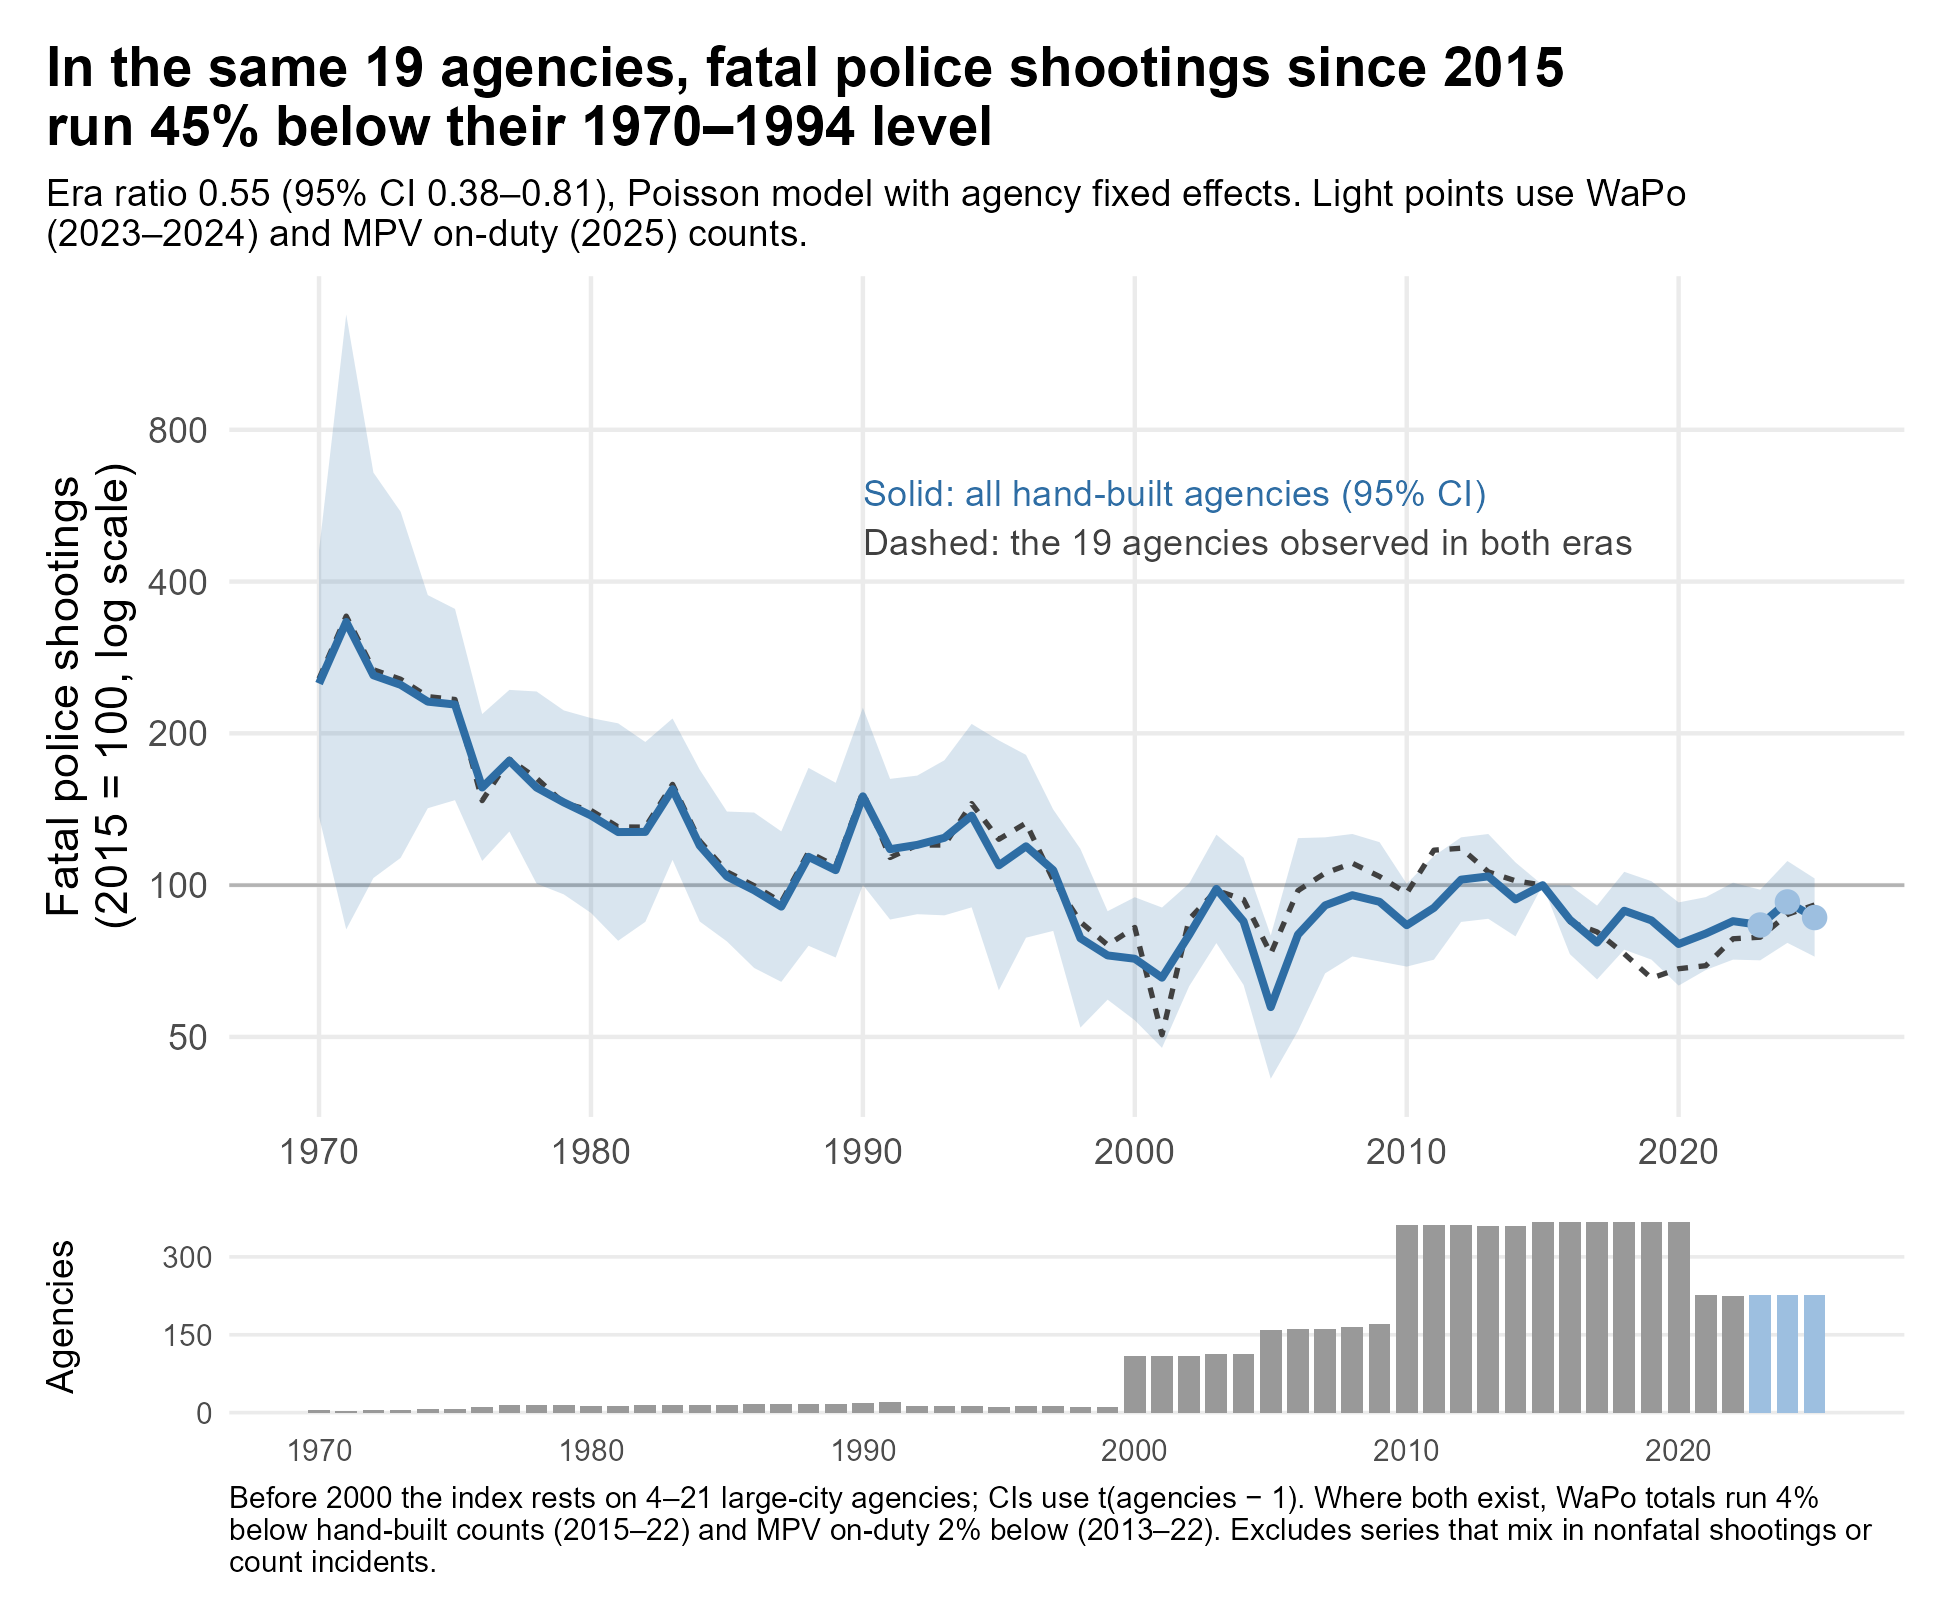
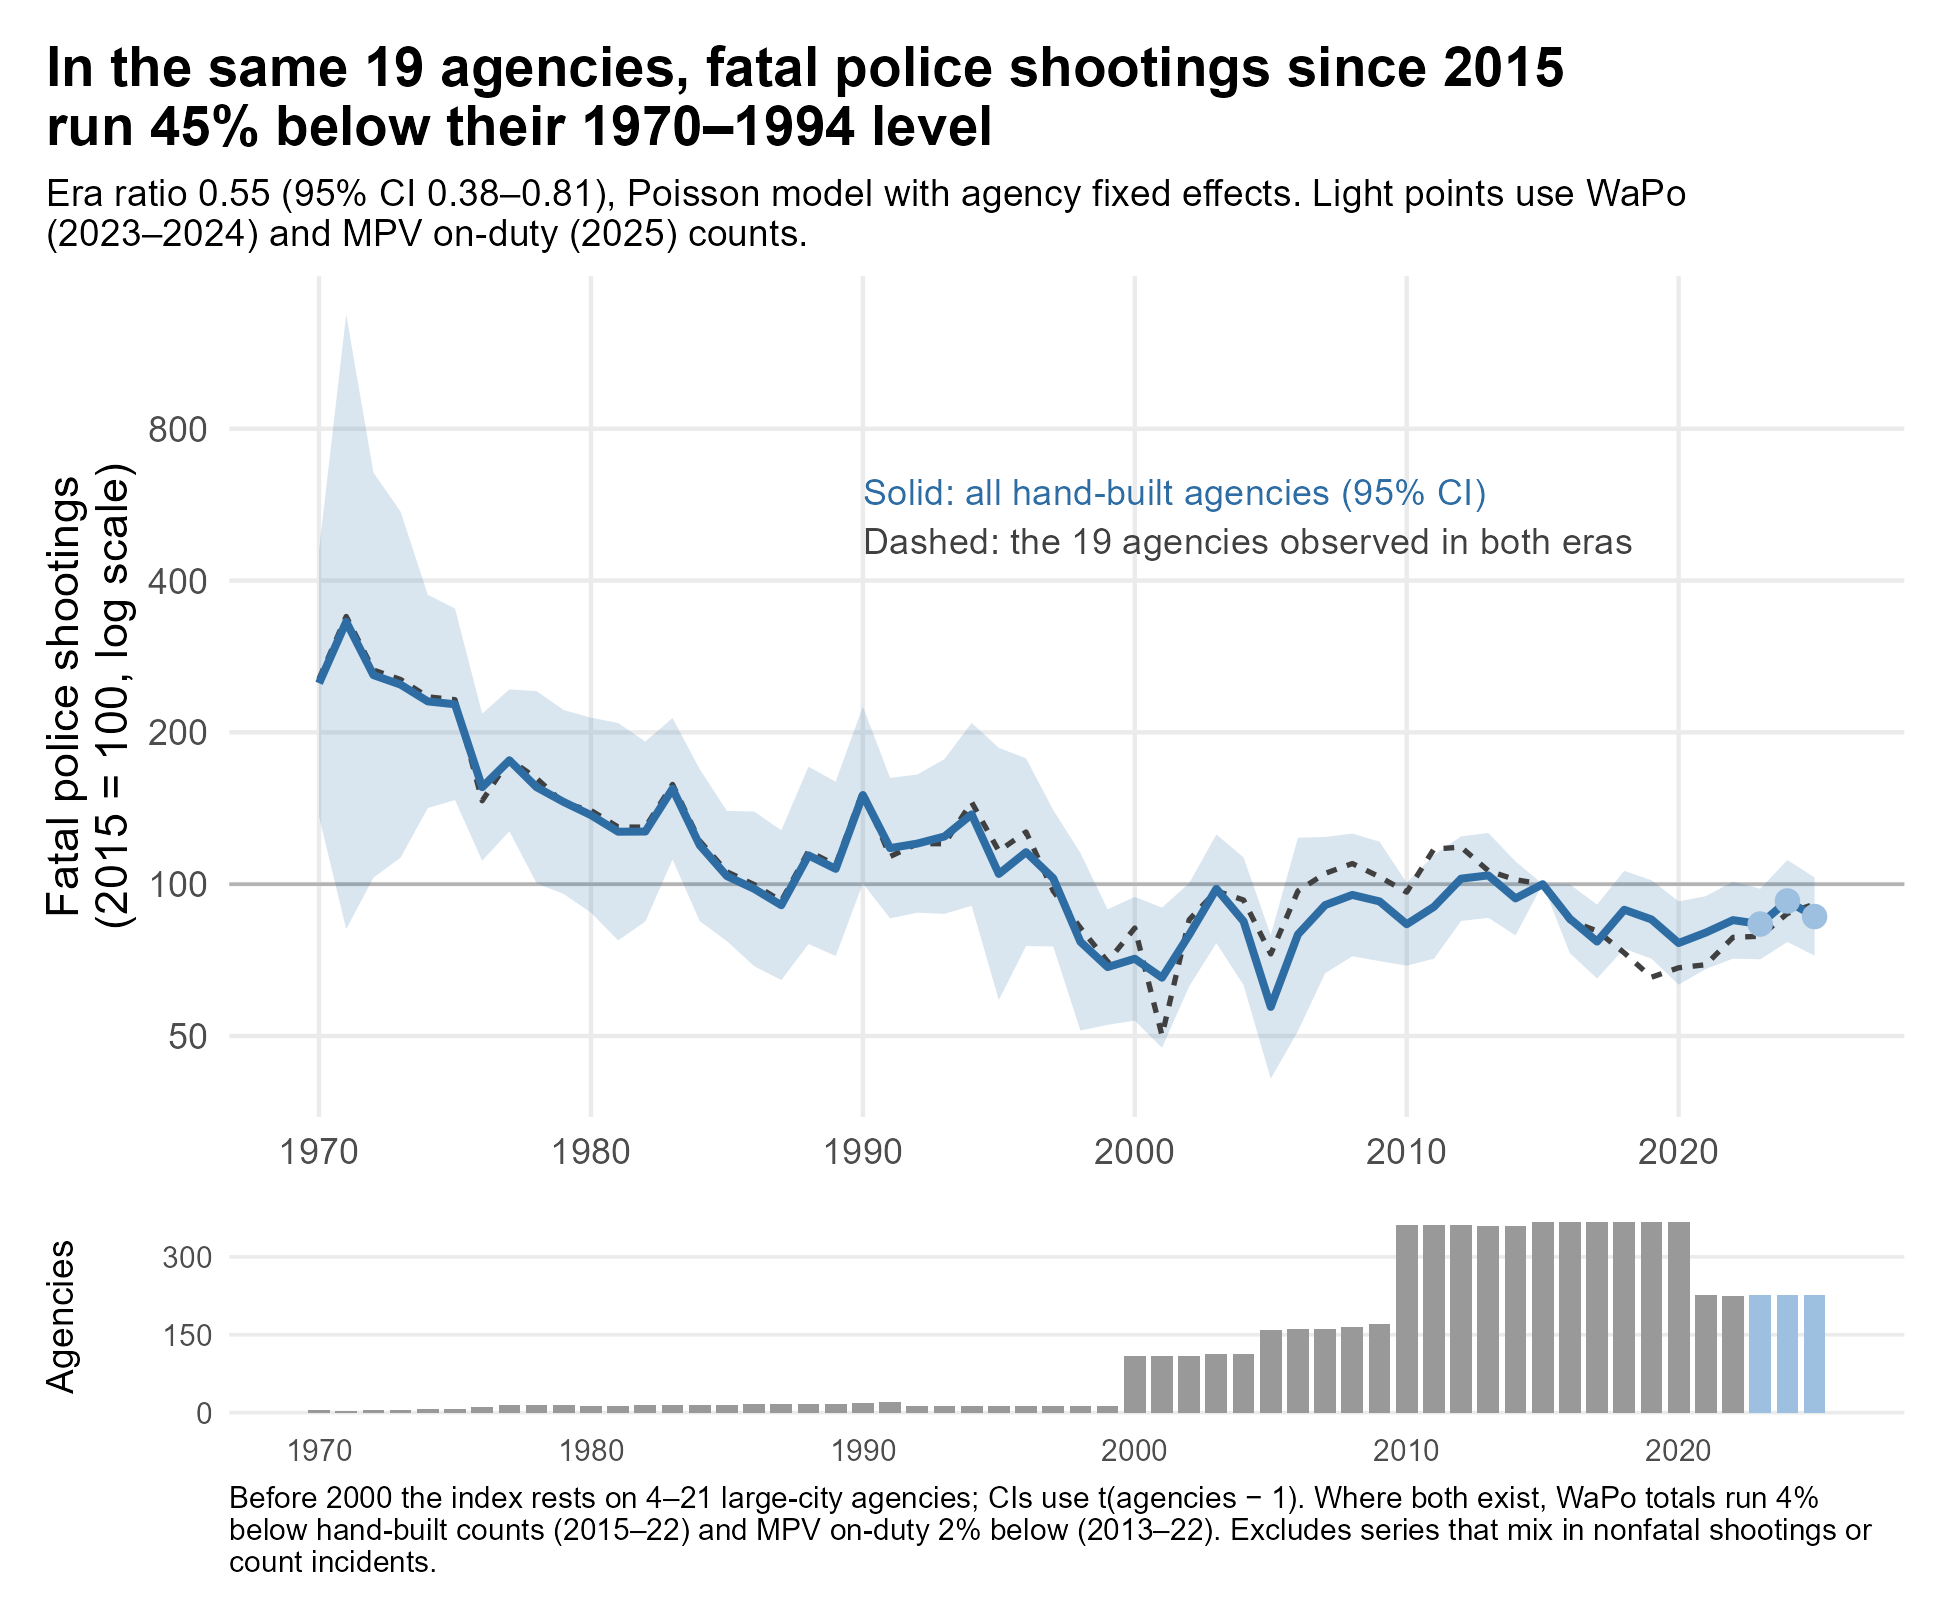
Add Columbus (OH) 1995-1999 to n_nix (6 deaths; matches SHR total)

diff --git a/README.md b/README.md
@@ -73,7 +73,7 @@ Where they overlap, the sources mostly agree, though FE runs higher than WaPo:
 | Hand-built vs. FE | 2000–2021 | 5,587 | .907 | FE −1.2% | 91.2% | 69.3% |
 | WaPo vs. FE (hand-built agencies) | 2015–2021 | 2,870 | .973 | FE +9.2% | 90.1% | 71.1% |
 | Hand-built vs. MPV (on-duty) | 2013–2022 | 3,357 | .936 | MPV −2.2% | 89.9% | 71.4% |
-| Hand-built vs. FBI SHR | 1976–2022 | 3,252 | .875 | SHR −28.7% | 65.7% | 31.4% |
+| Hand-built vs. FBI SHR | 1976–2022 | 3,257 | .875 | SHR −28.7% | 65.7% | 31.5% |
 
 Most agency-years are zero in both sources, so the last column, which drops agency-years where both are zero, is the tougher test. Agencies that WaPo lists under several ORIs (mostly state police) are left out of these comparisons. MPV's gap against the hand-built counts shifts over time: about 10% below in 2013–15 and 3–9% above in 2020–22. This is consistent with MPV recording a growing share of deaths over its life, and it's why the trend figures prefer WaPo where WaPo exists. [`output/tables/source_agreement.csv`](output/tables/source_agreement.csv) also compares MPV with WaPo and FE, and has each comparison restricted to the years all three sources cover (2015–2021). Agencies where the sources disagree are listed, largest gap first, in [`output/tables/source_disagreements.csv`](output/tables/source_disagreements.csv).
 
@@ -88,7 +88,7 @@ Most agency-years are zero in both sources, so the last column, which drops agen
 | 1969 | 1 (Chicago) | — | — | — | — |
 | 1970s | 4–15 | — | — | — | 1,760–1,929 (1976+) |
 | 1980s | 12–17 | — | — | — | 1,695–1,960 |
-| 1990s | 12–22 | — | — | — | 1,459–1,818 |
+| 1990s | 13–22 | — | — | — | 1,459–1,818 |
 | 2000s | 112–172 | — | 2,967 | — | 1,524–1,721 |
 | 2010s | 361–369 | 3,647 (2015+) | 2,967 | 4,622 (2013+) | 1,584–1,841 |
 | 2020s | 225–368 (through 2022) | 3,647 (through 2024) | 2,967 (through 2021) | 4,622 (through 2025) | 1,864–2,098 (through 2024) |
@@ -146,7 +146,7 @@ I decided, for now at least, to focus on fatal shootings, since they're more rel
 | *Omaha World-Herald* coverage of Lincoln police shootings (Oct. 22, 1991; Aug. 4, 1992; Jan. 5, 2008, which calls that shooting the first fatal one by a Lincoln officer in more than 15 years; Mar. 19, 2009), via NewsBank | 1991–2009 | Lincoln PD |
 | Jacksonville Sheriff's Office, [*Police Involved Shootings*](https://web.archive.org/web/20150717050006/http://www.jaxsheriff.org/departments/sheriffs-office/docs/sheriff-john-rutherford/police-involved-shootings-final.aspx) (Jan. 2009; archived copy) | 2007–2008 | Jacksonville SO |
 | *The Daily Oklahoman*, case-by-case reconstruction via NewsBank: every OKC police shooting reported in the paper, kept when the person died and the officer was on duty (off-duty officers, other agencies, and Housing Authority guards excluded). Each year was searched three to five ways; cases and exclusions are logged in [`data/historical/historical_ois_evidence.csv`](data/historical/historical_ois_evidence.csv). Because it relies on finding every story, it may slightly undercount: it totals 27, against 36 in SHR, about 4 of which are off-duty killings | 1982–1994 | Oklahoma City PD |
-| *The Columbus Dispatch*, case-by-case reconstruction via NewsBank: every Columbus police shooting reported in the paper, kept when the person died and the officer was on duty (off-duty and special-duty officers, deputies, and other agencies excluded). Each year was searched with headline, short full-text, and grand-jury queries; cases and exclusions are logged in [`data/historical/historical_ois_evidence.csv`](data/historical/historical_ois_evidence.csv). Three running counts in the paper (Jan. 1990, May 1990, Jul. 1992) agree. It may slightly undercount: it totals 17, against 15 in SHR | 1986–1994 | Columbus (OH) PD |
+| *The Columbus Dispatch*, case-by-case reconstruction via NewsBank: every Columbus police shooting reported in the paper, kept when the person died and the officer was on duty (off-duty and special-duty officers, deputies, and other agencies excluded). Each year was searched with headline, short full-text, and grand-jury queries; cases and exclusions are logged in [`data/historical/historical_ois_evidence.csv`](data/historical/historical_ois_evidence.csv). Three running counts in the paper (Jan. 1990, May 1990, Jul. 1992) agree. For 1995–99 it matches a list the paper published in 2001. It may slightly undercount: it totals 23, against 21 in SHR | 1986–1999 | Columbus (OH) PD |
 | [Cincinnati open data portal](https://data.cincinnati-oh.gov/Safety/PDI-Police-Data-Initiative-Officer-Involved-Shooti/r6q4-muts) | 1996–2019 | Cincinnati PD |
 | [Vermont open data portal](https://data.vermont.gov/Public-Safety/Vermont-State-Police-Officer-Involved-Shootings-19/du86-kfnp) | 1977–2022 | Vermont State Police |
 | [COPS Office report on LVMPD](https://cops.usdoj.gov/RIC/Publications/cops-p273-pub.pdf) | 1990–2011 | Las Vegas Metro PD |
